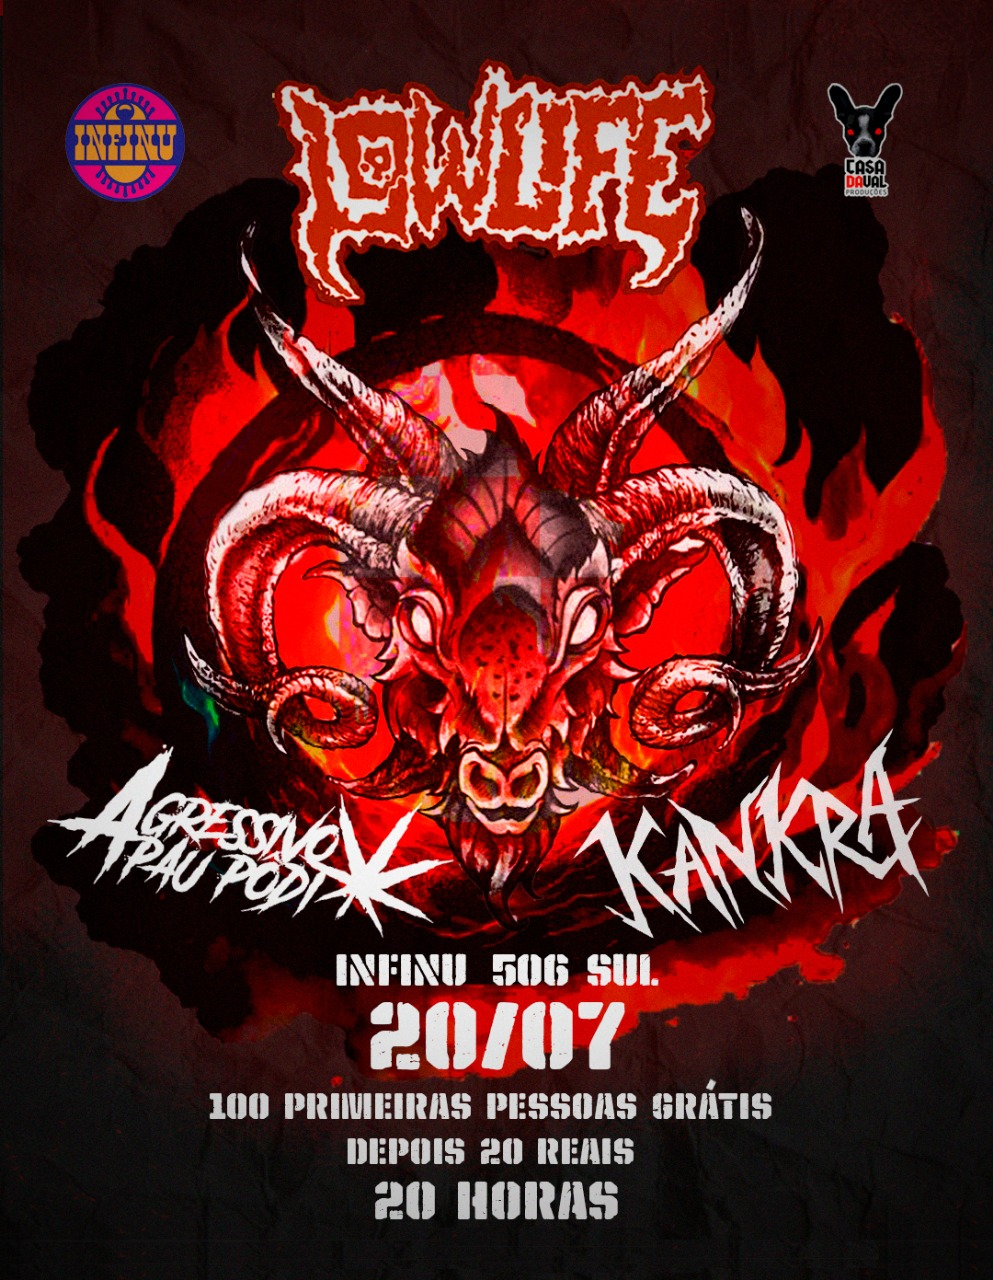
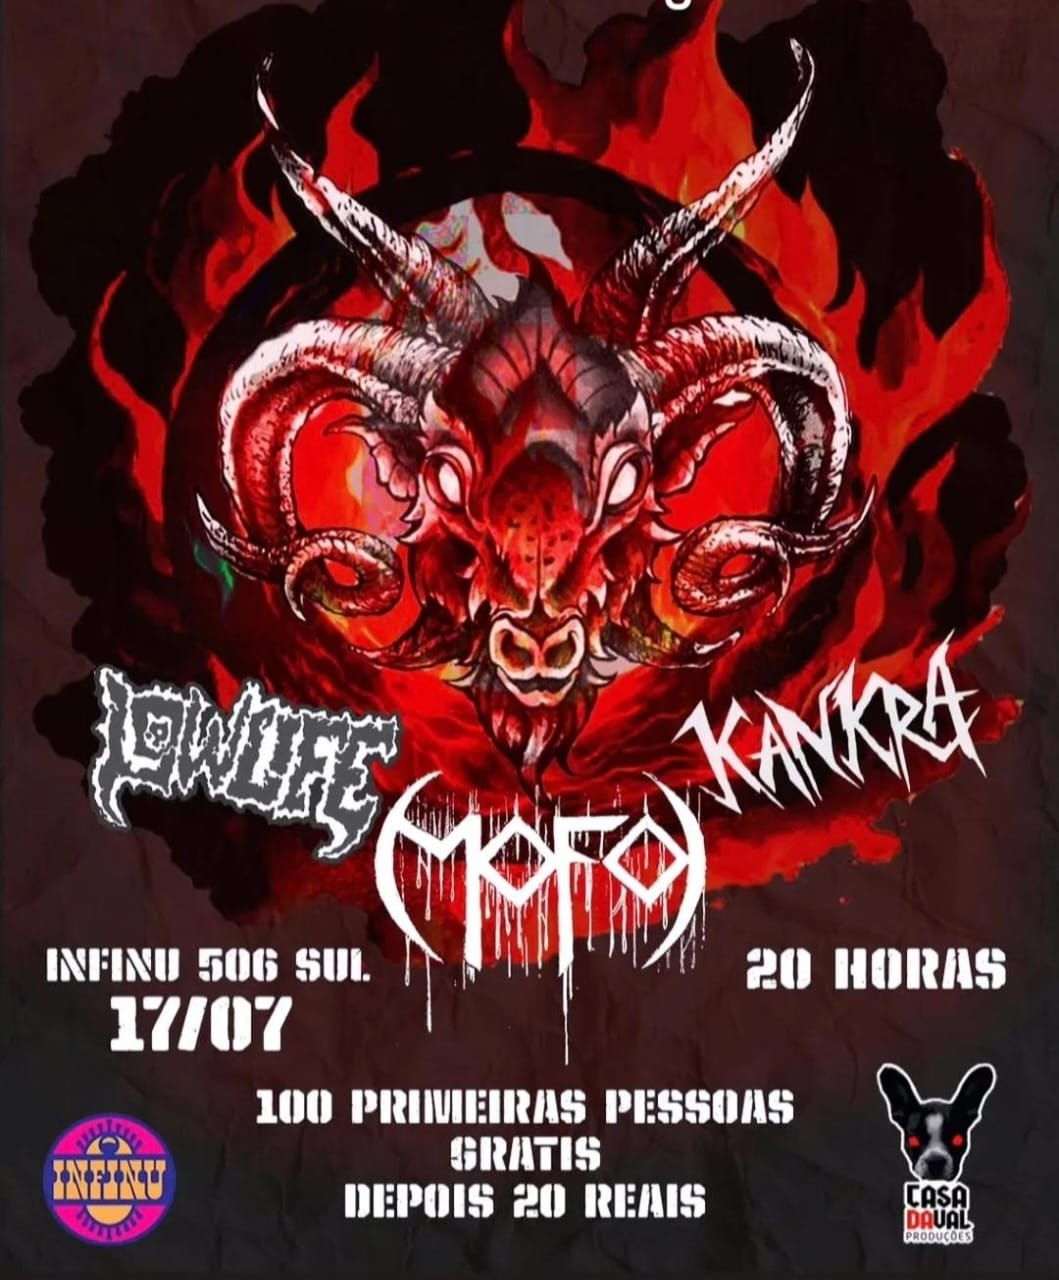
chore: add more shows

diff --git a/src/content/state/sp.md b/src/content/state/sp.md
@@ -259,5 +259,12 @@ gigs:
     ticketsUrl: 'https://www.sympla.com.br/evento/bandas-seu-plutao-e-house-of-rock/2998328'
     title: Seu Plutão + House Of Rock
     where: House of Legends
+  - poster: kmf_260725.jpg
+    city: São Paulo
+    date: '26/07/2025 17:00'
+    daysGroup: 25/26/27
+    ticketsUrl: "https://ticket.com.vc/evento/kool-metal-session-na-burning-house"
+    title: DEAFKIDS + D.E.R. + Infamous Glory + Punho de Mahin + Escärro
+    where: Burning House
 ---
 

diff --git a/src/content/state/mg.md b/src/content/state/mg.md
@@ -1,6 +1,13 @@
 ---
 abbr: MG
 name: Minas Gerais
-gigs: []
+gigs:
+  - poster: punknopark020825.jpeg
+    city: São Paulo
+    date: '02/08/2025 18:00'
+    daysGroup: 01/02/03
+    ticketsUrl: 'https://articket.com.br/e/4208/punk-no-park-apresenta-pense'
+    title: PUNK NO PARK com Pense + Sempta + Arc Over + Lies Untold
+    where: DEPUTAMADRE
 ---
 

diff --git a/src/content/state/df.md b/src/content/state/df.md
@@ -11,7 +11,7 @@ gigs:
     where: Alquimia Taberna Bar
   - poster: lowlife_270525.jpeg
     city: Brasília
-    date: '20/07/2025 20:00'
+    date: '17/07/2025 20:00'
     daysGroup: 18/19/20
     title: Lowlife + Agressivo Pau Podi + Kankra
     where: Infinu Comunidade Criativa
